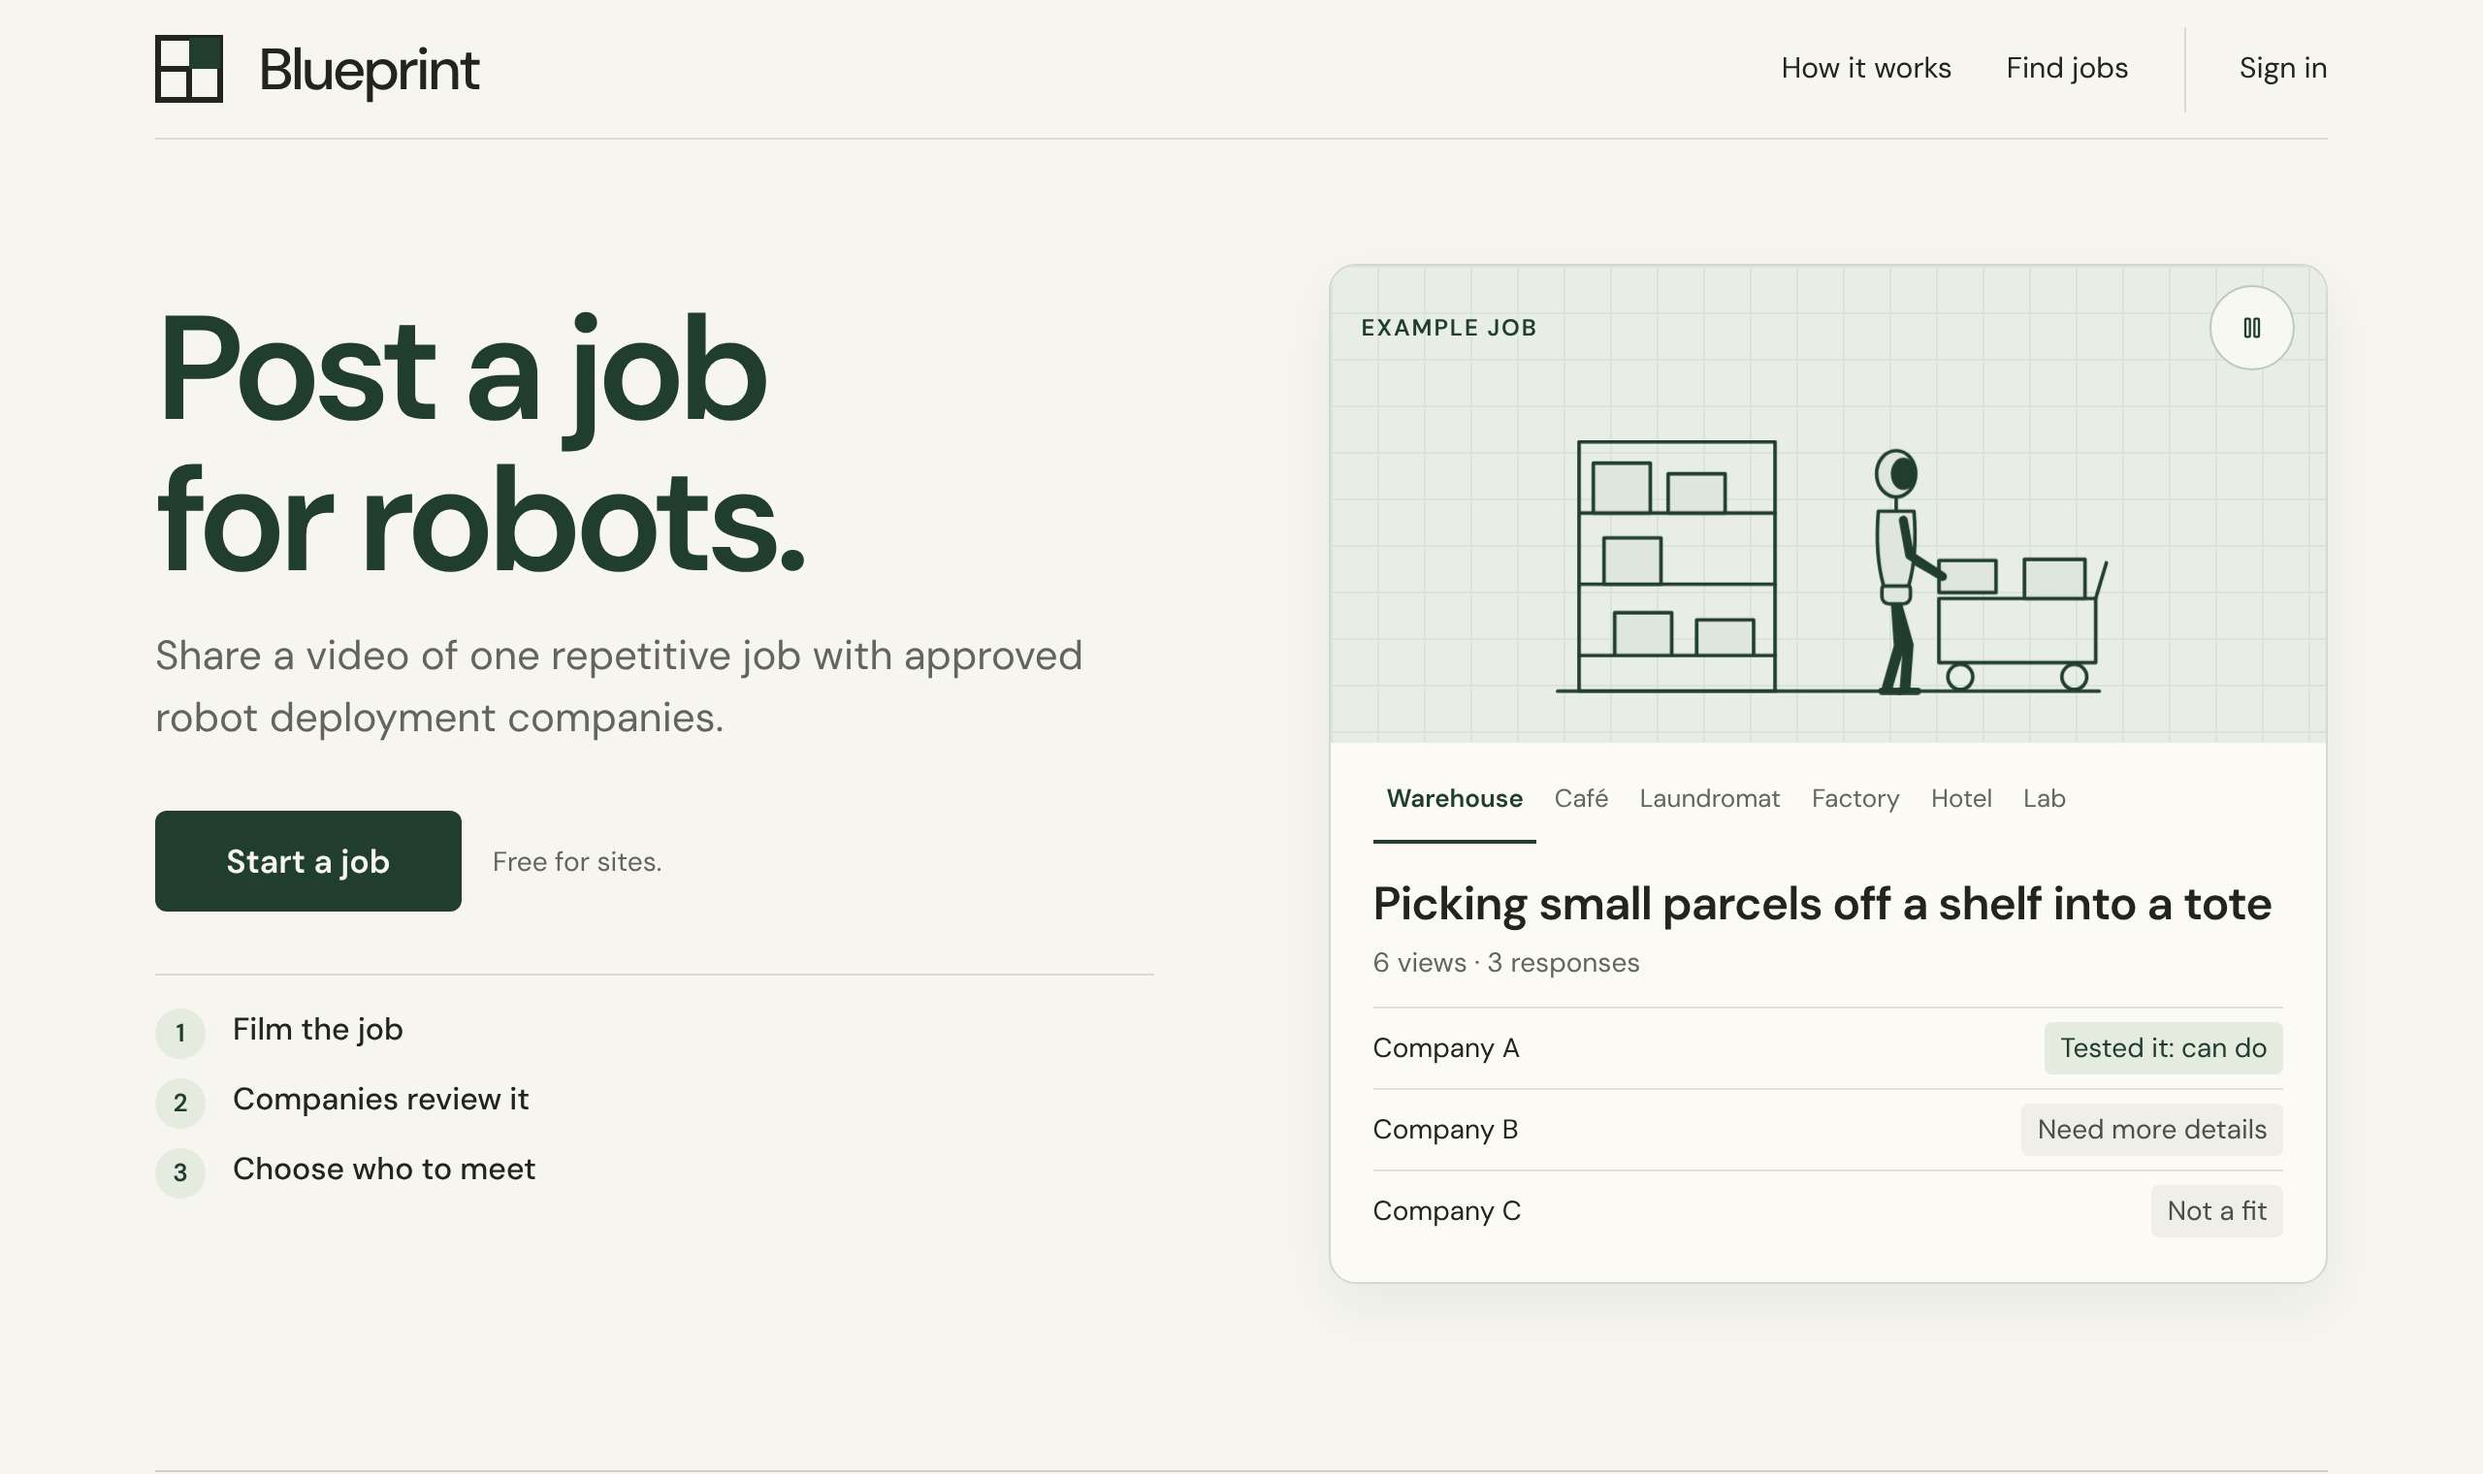
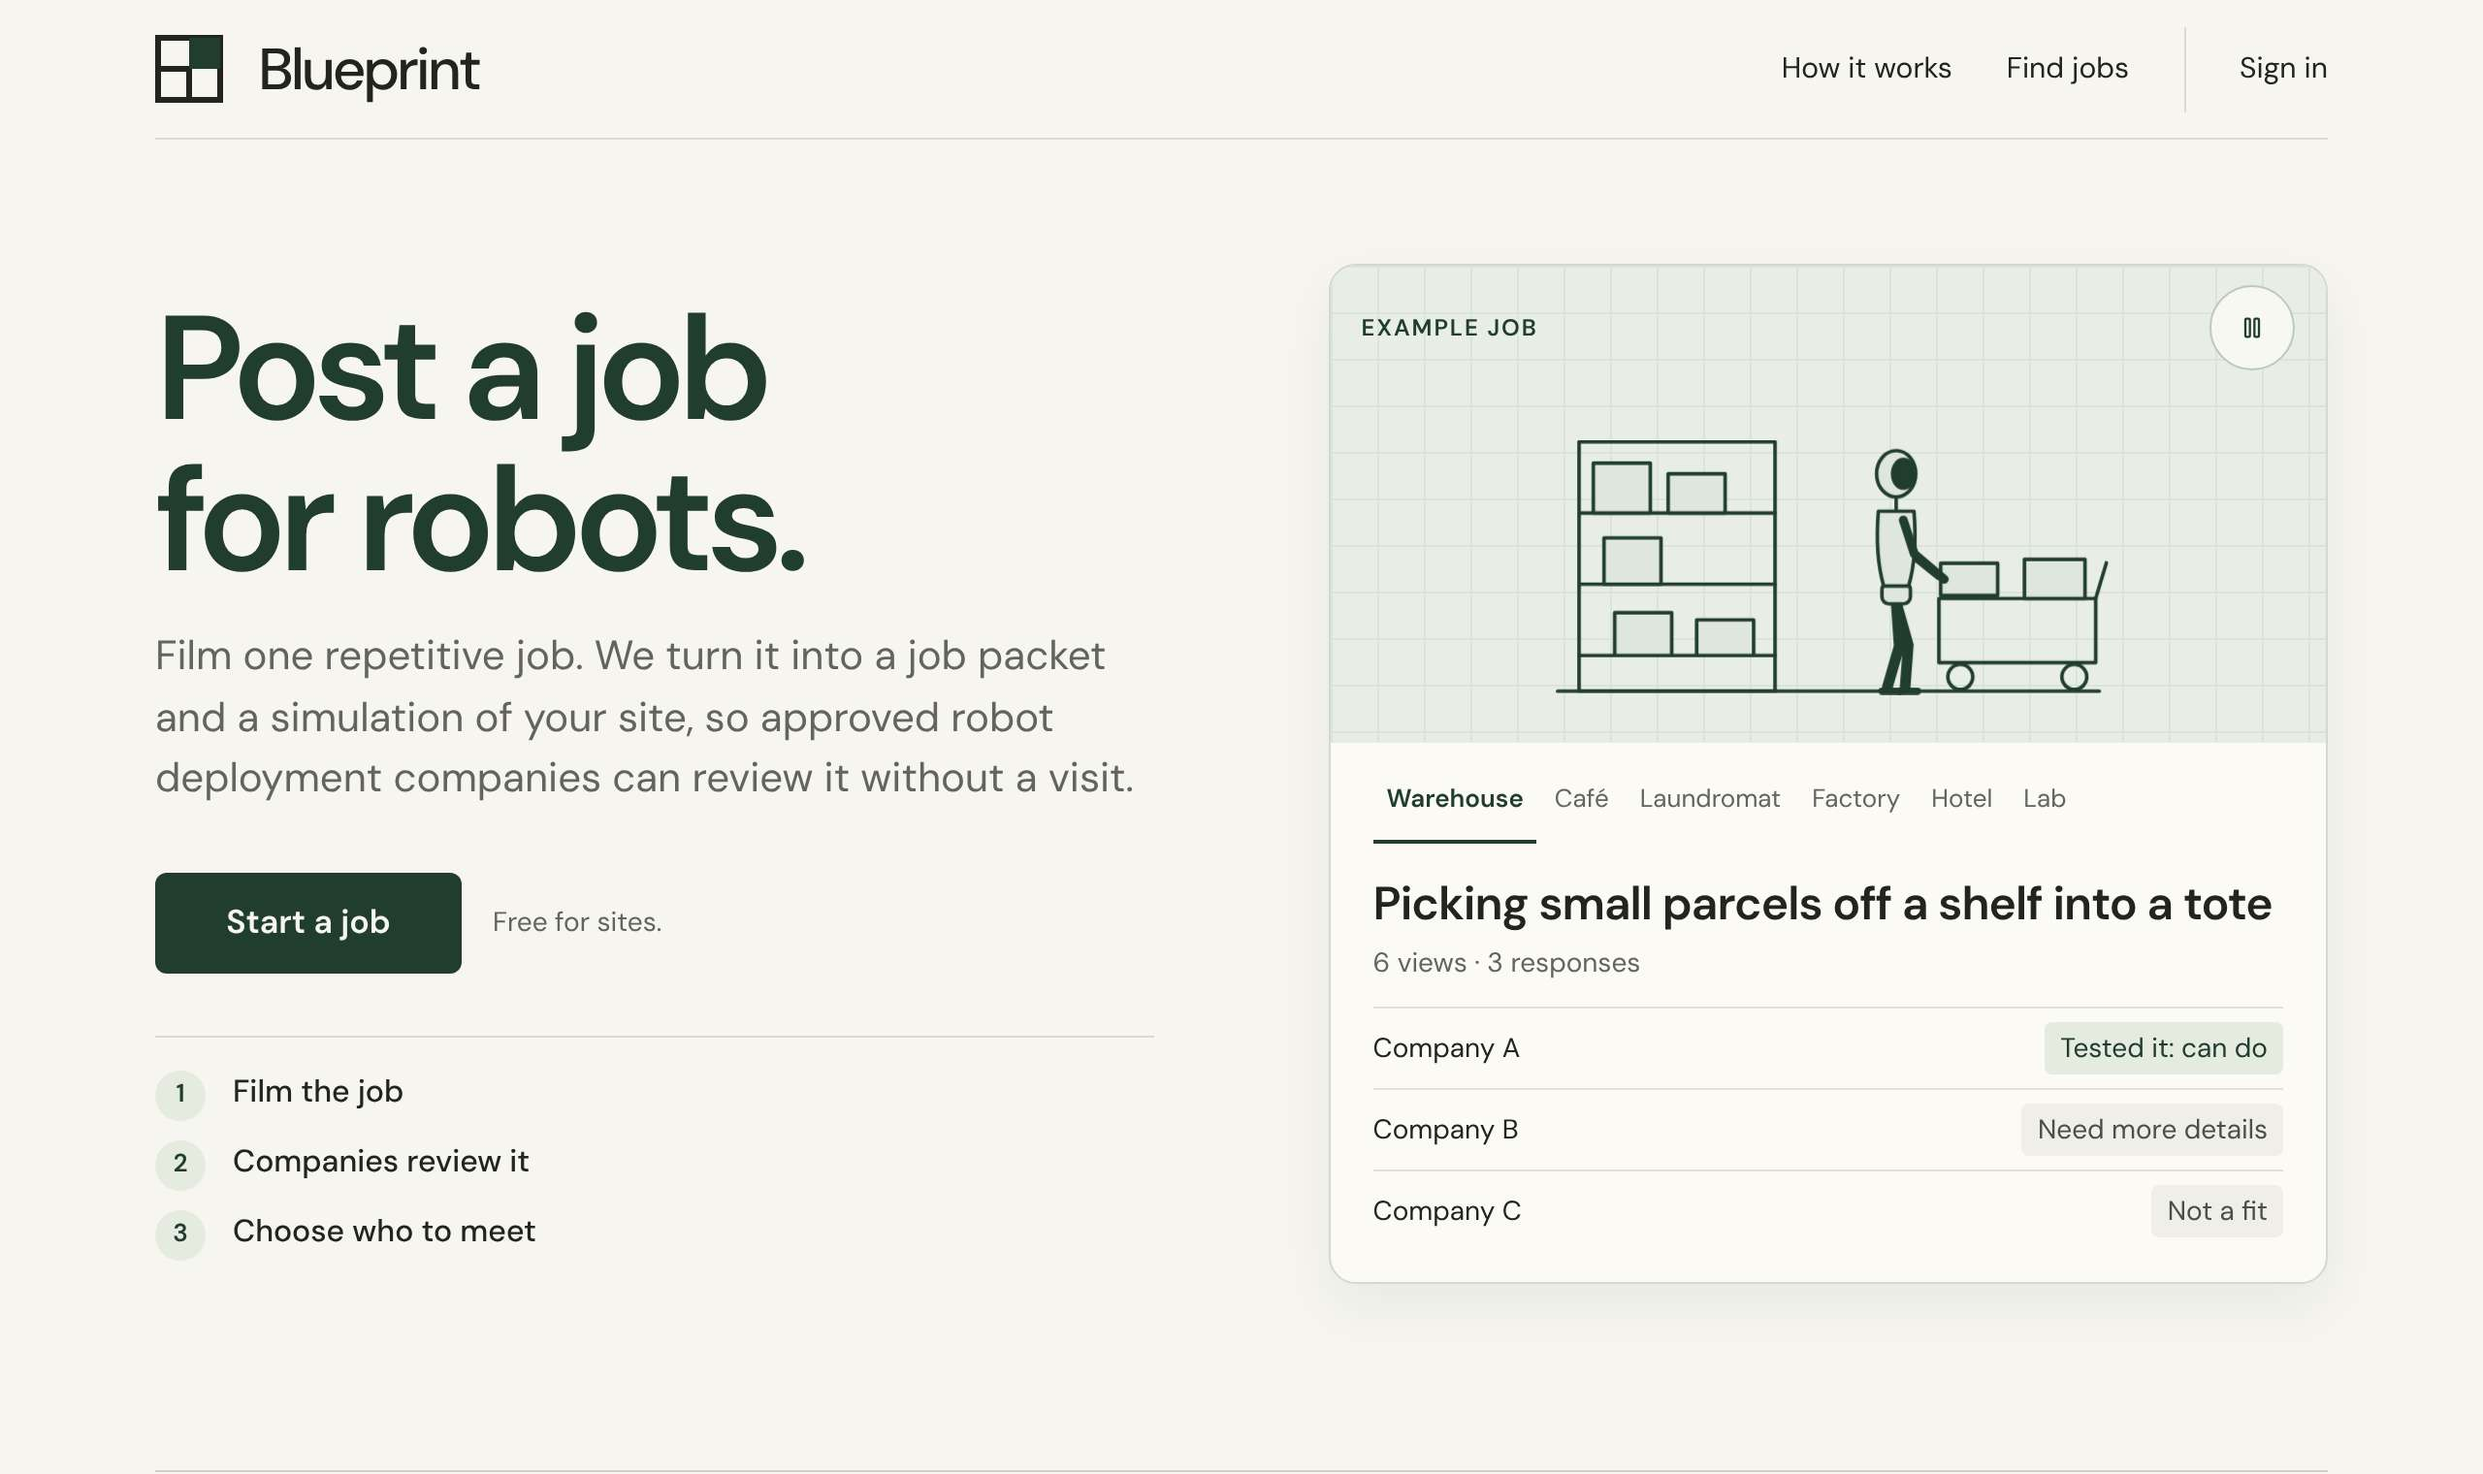
Home page line, shorter: "Film one repetitive job and find out who wants to deploy robots for it."
The owner found the 26-word line too long and the goal is not that companies "review" a job but that they decide whether they want to take it on (owner, 2026-11-21). The search description, the meta tags and the share image follow.

Claude-Session: https://claude.ai/code/session_01M1AVLBWzhhDWmX3i8TNGA7

diff --git a/client/index.html b/client/index.html
@@ -9,7 +9,7 @@
     <title>Blueprint | Post a job for robots.</title>
     <meta
       name="description"
-      content="Film one repetitive job. We turn it into a job packet and a simulation of your site, so approved robot deployment companies can review it without a visit. See responses and choose who to meet. Free for sites."
+      content="Film one repetitive job and find out who wants to deploy robots for it. See responses and choose who to meet. Free for sites."
     />
     <link rel="preconnect" href="https://fonts.googleapis.com" />
     <link rel="preconnect" href="https://fonts.gstatic.com" crossorigin />
@@ -34,7 +34,7 @@
     <meta property="og:title" content="Blueprint | Post a job for robots." />
     <meta
       property="og:description"
-      content="Film one repetitive job. We turn it into a job packet and a simulation of your site, so approved robot deployment companies can review it without a visit. See responses and choose who to meet. Free for sites."
+      content="Film one repetitive job and find out who wants to deploy robots for it. See responses and choose who to meet. Free for sites."
     />
     <meta property="og:image" content="https://tryblueprint.io/brand/og-default.png" />
     <meta property="og:image:width" content="1200" />
@@ -44,7 +44,7 @@
     <meta name="twitter:title" content="Blueprint | Post a job for robots." />
     <meta
       name="twitter:description"
-      content="Film one repetitive job. We turn it into a job packet and a simulation of your site, so approved robot deployment companies can review it without a visit. See responses and choose who to meet. Free for sites."
+      content="Film one repetitive job and find out who wants to deploy robots for it. See responses and choose who to meet. Free for sites."
     />
     <meta name="robots" content="index, follow, max-image-preview:large, max-snippet:-1, max-video-preview:-1" />
 

diff --git a/client/tests/build-output.test.ts b/client/tests/build-output.test.ts
@@ -284,7 +284,7 @@ describe("build output", () => {
     const siteHtml = fs.readFileSync(distPath("contact/site-operator/index.html"), "utf8");
     const robotHtml = fs.readFileSync(distPath("contact/robot-team/index.html"), "utf8");
     expect(homeHtml).toContain("Post a job for robots.");
-    expect(homeHtml).toContain("Film one repetitive job. We turn it into a job packet and a simulation of your site, so approved robot deployment companies can review it without a visit.");
+    expect(homeHtml).toContain("Film one repetitive job and find out who wants to deploy robots for it.");
     expect(homeHtml).toContain("Companies review it");
     expect(homeHtml).toContain("Choose who to meet");
     expect(homeHtml).toContain("Free for sites");
@@ -366,7 +366,7 @@ describe("build output", () => {
     // above is reading the real public bundle, so removing one because the copy
     // moved would quietly make the whole check vacuous. "Site-funded Task
     // Evaluation Run" left the site page when it stopped leading with a screen.
-    expect(browserJavaScript).toContain("Film one repetitive job. We turn it into a job packet and a simulation of your site, so approved robot deployment companies can review it without a visit.");
+    expect(browserJavaScript).toContain("Film one repetitive job and find out who wants to deploy robots for it.");
     // The start form asks for the job's sentence on its first screen (owner, 2026-11-20).
     expect(browserJavaScript).toContain("Say what the robot should do in one sentence.");
   });

diff --git a/e2e/home.spec.ts b/e2e/home.spec.ts
@@ -9,7 +9,7 @@ test("homepage explains the offer and shows both paths and a labeled example", a
   const account = page.getByRole("navigation", { name: "Account" });
   await expect(account.getByRole("link", { name: "Sign in" })).toHaveAttribute("href", "/sign-in");
   const main = page.locator("main");
-  await expect(main).toContainText("Film one repetitive job. We turn it into a job packet and a simulation of your site, so approved robot deployment companies can review it without a visit.");
+  await expect(main).toContainText("Film one repetitive job and find out who wants to deploy robots for it.");
   const starts = main.getByRole("link", { name: "Start a job" });
   await expect(starts).toHaveCount(1);
   await expect(starts).toHaveAttribute("href", "/contact/site-operator");

diff --git a/client/tests/pages/Home.test.tsx b/client/tests/pages/Home.test.tsx
@@ -10,7 +10,7 @@ describe("Site-led homepage", () => {
   it("says the outcome, shows three steps and offers one button", () => {
     const { container } = render(<Home />);
     expect(screen.getByRole("heading", { level: 1 })).toHaveTextContent("Post a job for robots.");
-    expect(container).toHaveTextContent("Film one repetitive job. We turn it into a job packet and a simulation of your site, so approved robot deployment companies can review it without a visit.");
+    expect(container).toHaveTextContent("Film one repetitive job and find out who wants to deploy robots for it.");
     const starts = screen.getAllByRole("link", { name: "Start a job" });
     expect(starts).toHaveLength(1);
     expect(starts[0]).toHaveAttribute("href", "/contact/site-operator");

diff --git a/client/src/lib/publicCopy.ts b/client/src/lib/publicCopy.ts
@@ -15,7 +15,7 @@
 import { COMPANY_RESPONSE_LABELS as ANSWER } from "./companyResponses";
 
 export const HOME_TITLE = "Post a job for robots.";
-export const HOME_SUB_LINE = "Film one repetitive job. We turn it into a job packet and a simulation of your site, so approved robot deployment companies can review it without a visit.";
+export const HOME_SUB_LINE = "Film one repetitive job and find out who wants to deploy robots for it.";
 
 /**
  * The answers the company form offers (`CompanyJob.tsx`), said the same way on every public page, built from the form's
